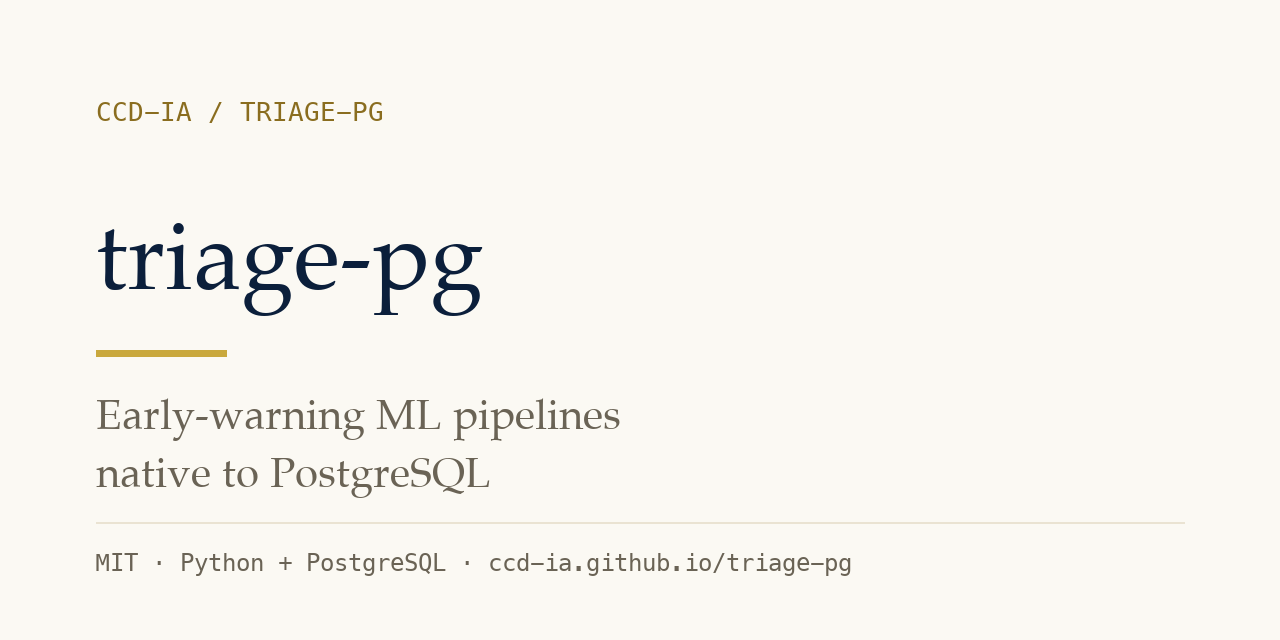
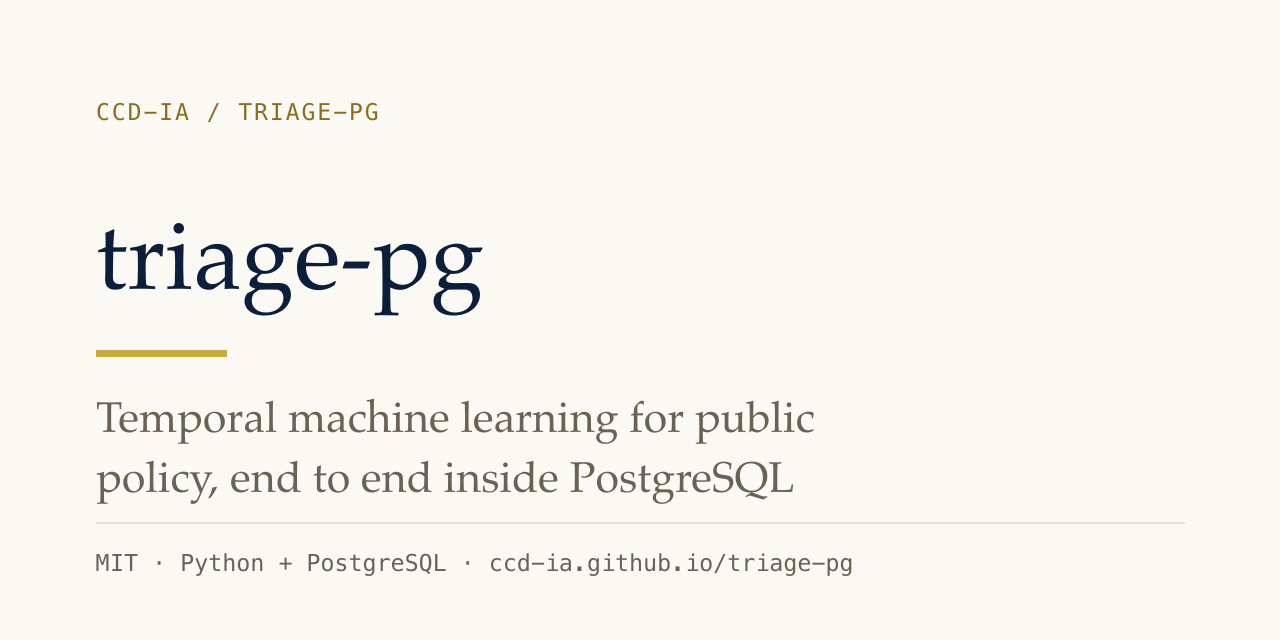
Widen the triage-pg framing; anchor the two research eras
triage-pg does more than early warning: four problem types including
survival, fairness auditing, audition, postmodeling and production
monitoring. The Software entry and the social preview both led with
"early-warning ML pipelines", which undersold it against the repo's own
README headline. Both now say what the README says.

The preview card had no source file, so it was rebuilt by measuring the
original to the pixel — kicker, title, gold rule, hairline and meta all
land on their original rows, with the sampled palette unchanged. The SVG
now sits beside the PNG so the next edit is a text change.

Research gets ids on its two groups and turns the phrases already in the
intro into jump links; with 21 entries, Physics sat two screens below
the fold with no way to reach it. Org's [[#ml]] form cannot resolve an
anchor the Hugo template generates, so these are @@html:@@ snippets.

Also records triage-pg's Zenodo DOI and its true version, 1.1.5.

Claude-Session: https://claude.ai/code/session_015Bkm9gD8AU5rKXtzBQiMZH

diff --git a/themes/unanue/layouts/research/section.html b/themes/unanue/layouts/research/section.html
@@ -8,7 +8,7 @@
   {{ range $g := $groups }}
     {{ $in := where $.Pages "Params.group" $g.key }}
     {{ with $in }}
-    <div class="pubgroup">
+    <div class="pubgroup" id="{{ $g.key }}">
       <span class="kicker">{{ $g.label }}</span>
       {{ range .ByDate.Reverse }}{{ partial "publication.html" . }}{{ end }}
     </div>
